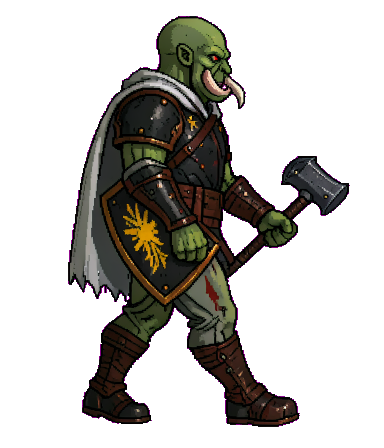
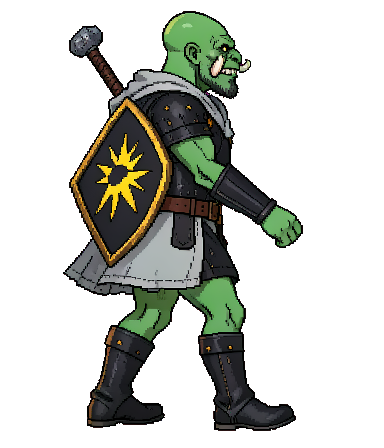
Still spec, animator d0dc5cf round: HR6.4 accepted, HR6.2/HR6.3 not; contact sheet, try log, table and faults

diff --git a/stills_spec/README.md b/stills_spec/README.md
@@ -1,0 +1,20 @@
+# Hero stills drawn to the animator's still spec
+
+Latest round (22 Nov, animator d0dc5cf). Klein 4B redrew each hero over its build's spec mannequin, which was the only picture given; the hero's look was described in words. The gate ran after every try, up to 8 tries per hero.
+
+| hero | tries | result |
+|---|---|---|
+| HR6.2 elf paladin | 8 | not accepted. Refused for G11 (shield on the near side) in 4 tries, G8/G6 (arm over the body) in 4, G1 (no hand outside the torso) in 3, and R1 (third leg in the 112 px bake) in 1 |
+| HR6.3 dwarf paladin | 8 | not accepted. Refused for G9 in all 8: the boot is now too LONG (0.71-0.77 of the leg, limit 0.60) after the long-boot wording. Also G1 in 6 tries, G11 in 4 |
+| HR6.4 orc paladin | 2 | accepted (try 1: G8). See the faults below |
+
+These files come from different rounds:
+- HR6.4.png/json are from this round.
+- HR6.1.png/json are from the first round (it still passes the d0dc5cf gate).
+- HR6.2.png/json are from the first round and are REFUSED by the d0dc5cf gate (G8). Don't use them.
+
+contact_d0dc5cf.png shows this round's batch at 56 and 112 px. tries_log_d0dc5cf.json lists every try with the refused rules and the extra wording that try's prompt carried.
+
+Faults the gate accepted in HR6.4 at 112 px (checked by eye, all 8 frames; 2 legs, 2 feet and 1 near arm in each):
+1. A loose brown stick, a detached fragment, floats behind the heels in every frame. Proposed rule: refuse a baked frame with any opaque blob not connected to the body.
+2. The orc's legs are bare green skin, the same colour as the hands. When the near hand swings past the thigh, hand and thigh merge into one green lump. In frame 1 a green hand-like blob also shows under the shield on the back side. Proposed rule: refuse hand-coloured legs, or a hand overlapping a leg of the same colour. Prompt: "trousers or greaves in a colour different from the skin".
